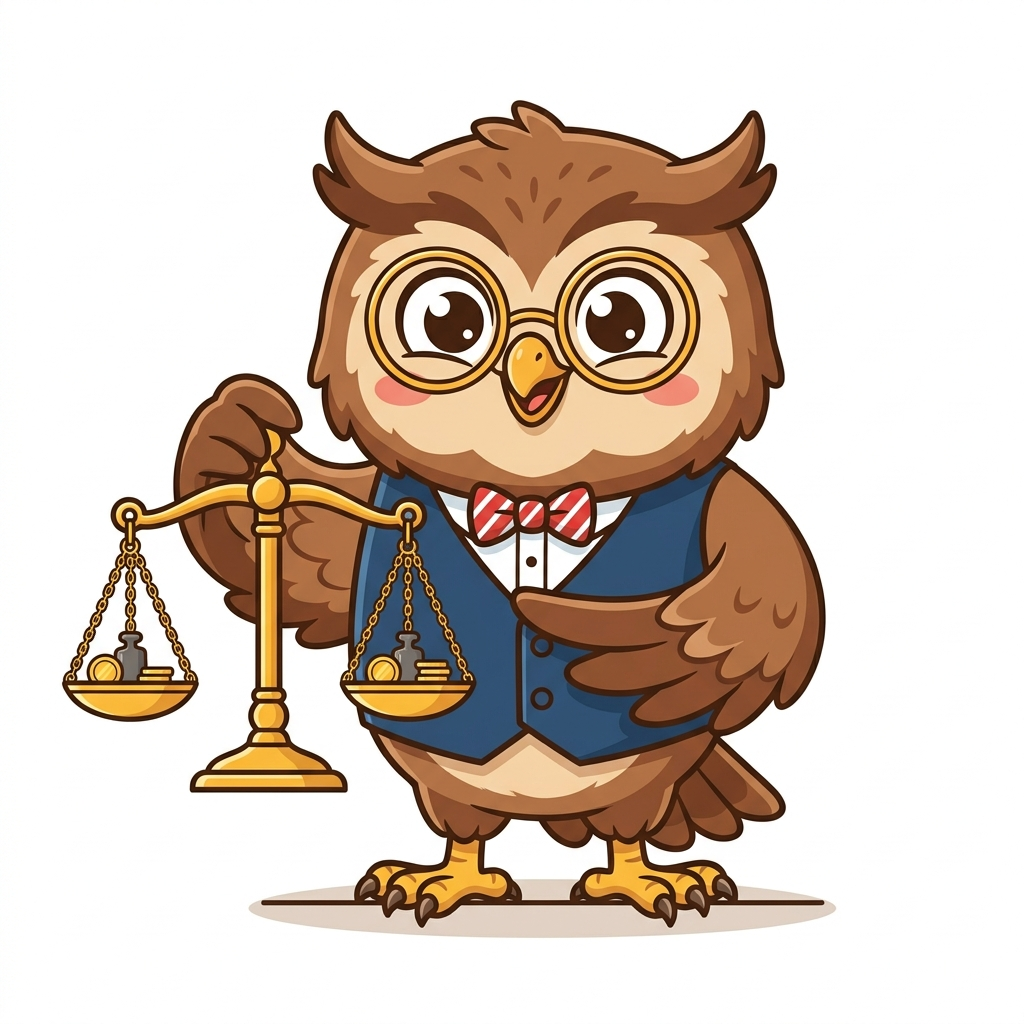
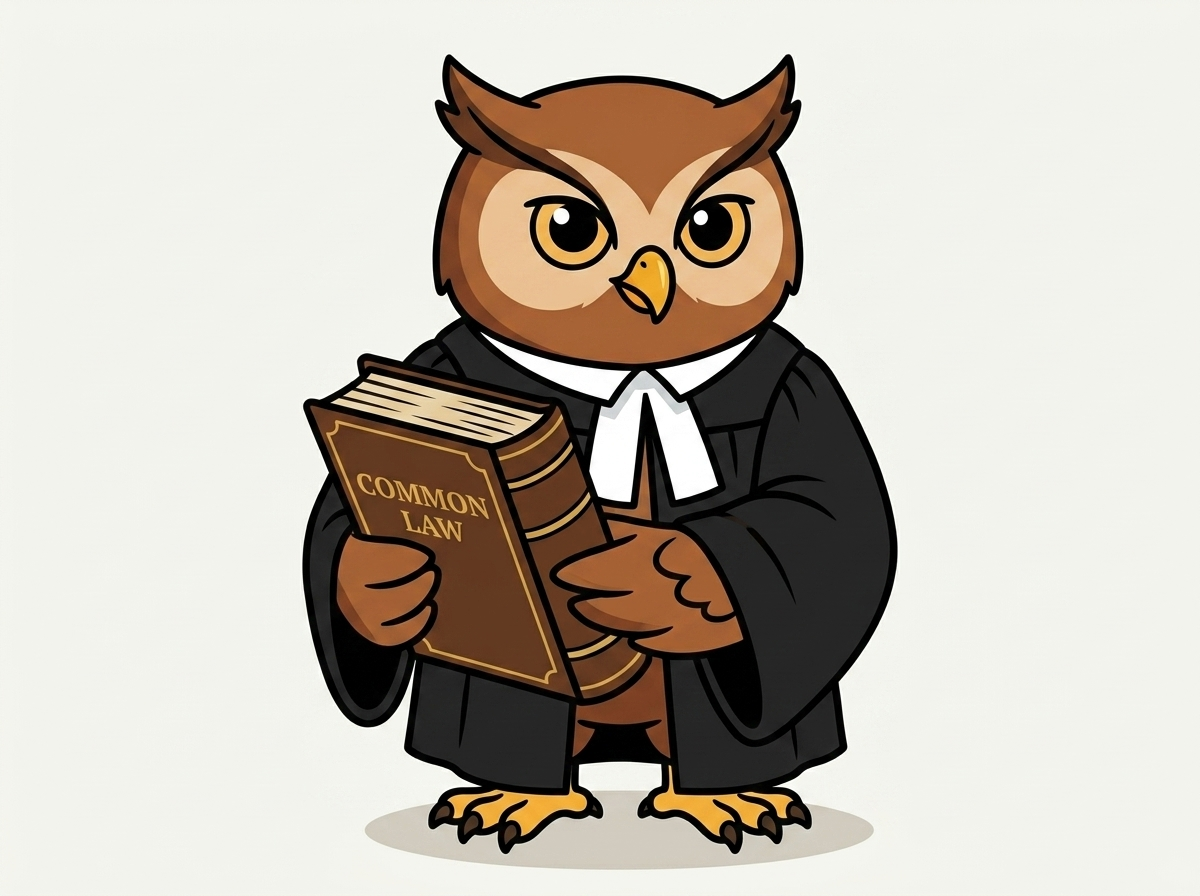
feat: optimize workspace sync with a single commit to prevent Vercel rate-limit

diff --git a/library.html b/library.html
@@ -6,10 +6,10 @@
     <title>Thư Viện B2B | Cẩm Nang & Bài Viết Business Development | BD Bình Dân Học Vụ</title>
     <meta name="description" content="Thư viện lưu trữ các bài viết chuyên môn, ebook, cẩm nang thực chiến dành cho B2B BD được viết bởi Peter Vo.">
     <link href="https://fonts.googleapis.com/css2?family=Plus+Jakarta+Sans:wght@400;500;600;700;800&family=Be+Vietnam+Pro:wght@400;500;600;700;800&display=swap" rel="stylesheet">
-    <link rel="stylesheet" href="style.css?v=2.2.8">
-    <link rel="stylesheet" href="library.css?v=2.2.8">
+    <link rel="stylesheet" href="style.css?v=2.2.9">
+    <link rel="stylesheet" href="library.css?v=2.2.9">
     <link rel="stylesheet" href="ai-chat.css?v=2.1.2">
-    <script src="theme-toggle.js?v=2.2.8"></script>
+    <script src="theme-toggle.js?v=2.2.9"></script>
 </head>
 <body>
     <!-- Navbar -->
@@ -95,7 +95,7 @@
                 <div class="glass-panel ad-banner-card" style="padding: 20px; border-radius: 16px; border: 1px solid var(--border-color); background: var(--card-bg); display: flex; flex-direction: column; gap: 12px; box-shadow: var(--shadow); transition: all 0.3s ease;">
                     <a href="community.html" style="text-decoration: none; color: inherit; display: block;">
                         <div style="position: relative; border-radius: 12px; overflow: hidden; height: 160px; border: 1px solid var(--border-color);">
-                            <img src="beedee_community.jpg?v=2.2.8" style="width: 100%; height: 100%; object-fit: cover; transition: transform 0.3s ease;" onmouseover="this.style.transform='scale(1.08)'" onmouseout="this.style.transform='scale(1)'" alt="Cộng Đồng B2B">
+                            <img src="beedee_community.jpg?v=2.2.9" style="width: 100%; height: 100%; object-fit: cover; transition: transform 0.3s ease;" onmouseover="this.style.transform='scale(1.08)'" onmouseout="this.style.transform='scale(1)'" alt="Cộng Đồng B2B">
                             <div style="position: absolute; top: 10px; left: 10px; background: var(--primary); color: white; padding: 4px 10px; border-radius: 20px; font-size: 0.68rem; font-weight: 800; text-transform: uppercase; letter-spacing: 0.5px;">👥 CỘNG ĐỒNG HOT</div>
                         </div>
                         <h4 style="margin: 10px 0 6px 0; font-size: 0.98rem; font-weight: 800; color: var(--text-main); display: flex; align-items: center; gap: 6px;">
@@ -111,7 +111,7 @@
                 <div class="glass-panel ad-banner-card" style="padding: 20px; border-radius: 16px; border: 1px solid var(--border-color); background: var(--card-bg); display: flex; flex-direction: column; gap: 12px; box-shadow: var(--shadow); transition: all 0.3s ease;">
                     <a href="index.html#minigame-section" style="text-decoration: none; color: inherit; display: block;">
                         <div style="position: relative; border-radius: 12px; overflow: hidden; height: 160px; border: 1px solid var(--border-color);">
-                            <img src="mascot_challenge.jpg?v=2.2.8" style="width: 100%; height: 100%; object-fit: cover; transition: transform 0.3s ease;" onmouseover="this.style.transform='scale(1.08)'" onmouseout="this.style.transform='scale(1)'" alt="BD Challenge">
+                            <img src="mascot_challenge.jpg?v=2.2.9" style="width: 100%; height: 100%; object-fit: cover; transition: transform 0.3s ease;" onmouseover="this.style.transform='scale(1.08)'" onmouseout="this.style.transform='scale(1)'" alt="BD Challenge">
                             <div style="position: absolute; top: 10px; left: 10px; background: rgba(239, 68, 68, 0.95); color: white; padding: 4px 10px; border-radius: 20px; font-size: 0.68rem; font-weight: 800; text-transform: uppercase; letter-spacing: 0.5px;">🎮 MINI GAME</div>
                         </div>
                         <h4 style="margin: 10px 0 6px 0; font-size: 0.98rem; font-weight: 800; color: var(--text-main); display: flex; align-items: center; gap: 6px;">
@@ -250,8 +250,8 @@
     </section>
 </footer>
 
-    <script src="library.js?v=2.2.8"></script>
+    <script src="library.js?v=2.2.9"></script>
     <script src="ai-chat.js?v=2.2.4"></script>
-    <script defer src="/_vercel/insights/script.js?v=2.2.8"></script>
+    <script defer src="/_vercel/insights/script.js?v=2.2.9"></script>
 </body>
 </html>

diff --git a/community.html b/community.html
@@ -9,10 +9,10 @@
     <meta http-equiv="Expires" content="0">
     
     <link href="https://fonts.googleapis.com/css2?family=Plus+Jakarta+Sans:wght@400;500;600;700;800&family=Be+Vietnam+Pro:wght@400;500;600;700;800&display=swap" rel="stylesheet">
-    <link rel="stylesheet" href="style.css?v=2.2.8">
-    <link rel="stylesheet" href="community.css?v=2.2.8">
+    <link rel="stylesheet" href="style.css?v=2.2.9">
+    <link rel="stylesheet" href="community.css?v=2.2.9">
     
-    <script src="theme-toggle.js?v=2.2.8"></script>
+    <script src="theme-toggle.js?v=2.2.9"></script>
 </head>
 <body class="course-page">
 
@@ -67,6 +67,11 @@
             <p style="color: var(--text-light); font-size: 1.1rem; margin-top: 10px;">
                 Nơi đặt câu hỏi, chia sẻ câu chuyện thực chiến, và hỗ trợ kết nối sếp mua hàng (PIC).
             </p>
+            <div style="margin-top: 20px; display: flex; justify-content: center;">
+                <div style="border-radius: 20px; overflow: hidden; border: 1.5px solid var(--border-color); box-shadow: var(--shadow); height: 260px; width: 100%; max-width: 620px;">
+                    <img src="beedee_community.jpg?v=2.2.9" style="width: 100%; height: 100%; object-fit: cover;" alt="BeeDee Community Group">
+                </div>
+            </div>
         </div>
 
         <div class="community-layout">
@@ -133,7 +138,7 @@
                 <!-- Ad Banner 1: Mini Game / Challenge -->
                 <div class="ad-banner-card glass-panel" style="border-radius: 12px; border: 1px solid var(--border-color); background: var(--card-bg); padding: 15px; display: flex; flex-direction: column; gap: 10px; box-shadow: var(--shadow); transition: all 0.3s ease;">
                     <div style="position: relative; border-radius: 8px; overflow: hidden; height: 120px; border: 1px solid var(--border-color);">
-                        <img src="mascot_challenge.jpg?v=2.2.8" style="width: 100%; height: 100%; object-fit: cover;" alt="BD Challenge">
+                        <img src="mascot_challenge.jpg?v=2.2.9" style="width: 100%; height: 100%; object-fit: cover;" alt="BD Challenge">
                         <div style="position: absolute; top: 8px; left: 8px; background: rgba(239, 68, 68, 0.95); color: white; padding: 3px 8px; border-radius: 20px; font-size: 0.65rem; font-weight: 800; text-transform: uppercase;">🔥 MINI GAME HOT</div>
                     </div>
                     <h5 style="margin: 0; font-size: 0.9rem; font-weight: 800; color: var(--text-main); line-height: 1.35;">BD Challenge: Rèn Phản Xạ</h5>
@@ -342,6 +347,6 @@
         </div>
     </div>
 
-    <script src="community.js?v=2.2.8"></script>
+    <script src="community.js?v=2.2.9"></script>
 </body>
 </html>

diff --git a/salary.html b/salary.html
@@ -6,10 +6,10 @@
     <title>Công Cụ Tính Lương Gross - Net | Chuẩn Luật Lao Động 2026 | BD Bình Dân Học Vụ</title>
     <meta name="description" content="Tính toán lương Gross sang Net và Net sang Gross chuẩn xác nhất theo quy định thuế TNCN và bảo hiểm bắt buộc mới nhất năm 2026.">
     <link href="https://fonts.googleapis.com/css2?family=Plus+Jakarta+Sans:wght@400;500;600;700;800&family=Be+Vietnam+Pro:wght@400;500;600;700;800&display=swap" rel="stylesheet">
-    <link rel="stylesheet" href="style.css?v=2.2.8">
+    <link rel="stylesheet" href="style.css?v=2.2.9">
     <link rel="stylesheet" href="salary.css?v=2.1.5">
     <link rel="stylesheet" href="ai-chat.css?v=2.1.2">
-    <script src="theme-toggle.js?v=2.2.8"></script>
+    <script src="theme-toggle.js?v=2.2.9"></script>
 </head>
 <body>
     <!-- Navbar -->
@@ -48,6 +48,11 @@
         <section class="salary-hero">
             <h1 class="hero-title">TÍNH LƯƠNG <span class="highlight">GROSS &harr; NET</span></h1>
             <p class="hero-subtitle">Công cụ quy đổi lương và phân tích chi tiết bảo hiểm, thuế TNCN theo cập nhật Luật Lao Động mới nhất</p>
+            <div style="margin-top: 20px; display: flex; justify-content: center;">
+                <div style="border-radius: 16px; overflow: hidden; border: 1.5px solid var(--border-color); box-shadow: var(--shadow); height: 140px; width: 185px;">
+                    <img src="mascot_salary.jpg?v=2.2.9" style="width: 100%; height: 100%; object-fit: cover;" alt="BeeDee Salary">
+                </div>
+            </div>
         </section>
 
         <!-- Main View Switcher Tabs -->
@@ -614,6 +619,6 @@
 
     <script src="salary.js?v=2.0.0"></script>
     <script src="ai-chat.js?v=2.2.4"></script>
-    <script defer src="/_vercel/insights/script.js?v=2.2.8"></script>
+    <script defer src="/_vercel/insights/script.js?v=2.2.9"></script>
 </body>
 </html>

diff --git a/labor-law.html b/labor-law.html
@@ -6,10 +6,10 @@
     <title>Tra Cứu Luật Lao Động B2B | Quyền Lợi Người Lao Động | BD Bình Dân Học Vụ</title>
     <meta name="description" content="Cổng tra cứu nhanh quy định Bộ luật Lao động 2019 cập nhật mới nhất và các tình huống giải quyết tranh chấp hợp đồng thực tế.">
     <link href="https://fonts.googleapis.com/css2?family=Plus+Jakarta+Sans:wght@400;500;600;700;800&family=Be+Vietnam+Pro:wght@400;500;600;700;800&display=swap" rel="stylesheet">
-    <link rel="stylesheet" href="style.css?v=2.2.8">
+    <link rel="stylesheet" href="style.css?v=2.2.9">
     <link rel="stylesheet" href="labor-law.css?v=2.1.5">
     <link rel="stylesheet" href="ai-chat.css?v=2.1.2">
-    <script src="theme-toggle.js?v=2.2.8"></script>
+    <script src="theme-toggle.js?v=2.2.9"></script>
 </head>
 <body>
     <!-- Navbar -->
@@ -48,6 +48,11 @@
         <section class="labor-hero">
             <h1 class="hero-title">BẢN ĐỒ <span class="highlight">LUẬT LAO ĐỘNG</span></h1>
             <p class="hero-subtitle">Tra cứu nhanh quy định pháp lý & Tình huống tranh chấp lao động thực tế dành cho B2B Employee</p>
+            <div style="margin-top: 20px; display: flex; justify-content: center;">
+                <div style="border-radius: 16px; overflow: hidden; border: 1.5px solid var(--border-color); box-shadow: var(--shadow); height: 140px; width: 185px;">
+                    <img src="mascot_law.jpg?v=2.2.9" style="width: 100%; height: 100%; object-fit: cover;" alt="BeeDee Law">
+                </div>
+            </div>
         </section>
 
         <!-- Search & Filter Options -->
@@ -187,6 +192,6 @@
 
     <script src="labor-law.js?v=2.0.0"></script>
     <script src="ai-chat.js?v=2.2.4"></script>
-    <script defer src="/_vercel/insights/script.js?v=2.2.8"></script>
+    <script defer src="/_vercel/insights/script.js?v=2.2.9"></script>
 </body>
 </html>

diff --git a/quests.html b/quests.html
@@ -6,9 +6,9 @@
     <title>Nhiệm Vụ & Quà Tặng | Tích Lũy Điểm Thực Chiến BD | BD Bình Dân Học Vụ</title>
     <meta name="description" content="Hệ thống tích lũy điểm thực chiến BD, làm nhiệm vụ hàng ngày/tuần để đổi lấy quà tặng độc quyền từ anh Peter Vo.">
     <link href="https://fonts.googleapis.com/css2?family=Plus+Jakarta+Sans:wght@400;500;600;700;800&family=Be+Vietnam+Pro:wght@400;500;600;700;800&display=swap" rel="stylesheet">
-    <link rel="stylesheet" href="style.css?v=2.2.8">
+    <link rel="stylesheet" href="style.css?v=2.2.9">
     <link rel="stylesheet" href="ai-chat.css?v=2.1.2">
-    <script src="theme-toggle.js?v=2.2.8"></script>
+    <script src="theme-toggle.js?v=2.2.9"></script>
 </head>
 <body>
     <!-- Navbar -->
@@ -54,6 +54,11 @@
             <p class="hero-subtitle" style="font-size: 1.1rem; color: var(--text-light); max-width: 600px; margin: 0 auto; line-height: 1.5;">
                 Rèn luyện kỹ năng BD mỗi ngày, tích lũy BD-Points để mở khóa phần thưởng thực chiến độc quyền!
             </p>
+            <div style="margin-top: 20px; display: flex; justify-content: center;">
+                <div style="border-radius: 16px; overflow: hidden; border: 1.5px solid var(--border-color); box-shadow: var(--shadow); height: 140px; width: 185px;">
+                    <img src="mascot_quests.jpg?v=2.2.9" style="width: 100%; height: 100%; object-fit: cover;" alt="BeeDee Quests">
+                </div>
+            </div>
         </section>
 
         <!-- Main Layout with Sidebar -->
@@ -258,7 +263,7 @@
     <!-- Chat Bot Integration -->
     <div id="ai-chat-root"></div>
 
-    <script src="script.js?v=2.2.8"></script>
+    <script src="script.js?v=2.2.9"></script>
     <script src="ai-chat.js?v=2.2.4"></script>
 </body>
 </html>

diff --git a/email-assistant.html b/email-assistant.html
@@ -10,10 +10,10 @@
     <link rel="preconnect" href="https://fonts.gstatic.com" crossorigin>
     <link href="https://fonts.googleapis.com/css2?family=Plus+Jakarta+Sans:wght@400;500;600;700;800&family=Be+Vietnam+Pro:wght@400;500;600;700;800&display=swap" rel="stylesheet">
     <!-- Custom CSS -->
-    <link rel="stylesheet" href="style.css?v=2.2.8">
+    <link rel="stylesheet" href="style.css?v=2.2.9">
     <link rel="stylesheet" href="email-assistant.css?v=2.1.4">
     <link rel="stylesheet" href="ai-chat.css?v=2.1.2">
-    <script src="theme-toggle.js?v=2.2.8"></script>
+    <script src="theme-toggle.js?v=2.2.9"></script>
 </head>
 <body>
     <!-- Navbar -->
@@ -52,6 +52,11 @@
         <div class="assistant-header">
             <h1>B2B Email Assistant</h1>
             <p>Đánh giá hiệu quả cold email và tự động soạn thảo mẫu tiếp cận đối tác đạt tỷ lệ chuyển đổi cao</p>
+            <div style="margin-top: 20px; display: flex; justify-content: center;">
+                <div style="border-radius: 16px; overflow: hidden; border: 1.5px solid var(--border-color); box-shadow: var(--shadow); height: 140px; width: 185px;">
+                    <img src="mascot_email.jpg?v=2.2.9" style="width: 100%; height: 100%; object-fit: cover;" alt="BeeDee Email">
+                </div>
+            </div>
         </div>
 
         <!-- Settings Button Bar -->
@@ -427,6 +432,6 @@
     <script src="ai-chat.js?v=2.2.4"></script>
     <!-- Custom Page Script -->
     <script src="email-assistant.js?v=2.0.0"></script>
-    <script defer src="/_vercel/insights/script.js?v=2.2.8"></script>
+    <script defer src="/_vercel/insights/script.js?v=2.2.9"></script>
 </body>
 </html>

diff --git a/pitching.html b/pitching.html
@@ -6,10 +6,10 @@
     <title>AI Sales Roleplay Simulator | BD Bình Dân Học Vụ</title>
     <meta name="description" content="Luyện tập pitching, đàm phán và xử lý từ chối B2B thực chiến với Trợ lý ảo AI đóng vai khách hàng.">
     <link href="https://fonts.googleapis.com/css2?family=Plus+Jakarta+Sans:wght@400;500;600;700;800&family=Be+Vietnam+Pro:wght@400;500;600;700;800&display=swap" rel="stylesheet">
-    <link rel="stylesheet" href="style.css?v=2.2.8">
+    <link rel="stylesheet" href="style.css?v=2.2.9">
     <link rel="stylesheet" href="pitching.css?v=2.1.2">
     <link rel="stylesheet" href="ai-chat.css?v=2.1.2">
-    <script src="theme-toggle.js?v=2.2.8"></script>
+    <script src="theme-toggle.js?v=2.2.9"></script>
 </head>
 <body>
     <!-- Navbar -->
@@ -52,6 +52,9 @@
         <div class="workspace-container">
             <!-- Left Sidebar Navigation -->
             <aside class="sidebar-panel glass-panel">
+                <div style="border-radius: 12px; overflow: hidden; border: 1.5px solid var(--border-color); margin-bottom: 15px; box-shadow: var(--shadow); height: 120px;">
+                    <img src="mascot_pitching.jpg?v=2.2.9" style="width: 100%; height: 100%; object-fit: cover;" alt="BeeDee Pitching">
+                </div>
                 <button class="sidebar-menu-btn active" id="menu-btn-dashboard" onclick="switchTab('dashboard')">
                     📊 Dashboard Chung
                 </button>

diff --git a/kpi-estimation.html b/kpi-estimation.html
@@ -6,10 +6,10 @@
     <title>Ước Tính KPI - B2B Business Development Portal | BD Bình Dân Học Vụ</title>
     
     <link href="https://fonts.googleapis.com/css2?family=Plus+Jakarta+Sans:wght@400;500;600;700;800&family=Be+Vietnam+Pro:wght@400;500;600;700;800&display=swap" rel="stylesheet">
-    <link rel="stylesheet" href="style.css?v=2.2.8">
+    <link rel="stylesheet" href="style.css?v=2.2.9">
     <link rel="stylesheet" href="kpi-estimation.css?v=2.0.0">
     
-    <script src="theme-toggle.js?v=2.2.8"></script>
+    <script src="theme-toggle.js?v=2.2.9"></script>
 </head>
 <body class="course-page">
 
@@ -50,6 +50,11 @@
             <p style="color: var(--text-light); font-size: 1.1rem; margin-top: 10px;">
                 Nhập mục tiêu doanh thu, hợp đồng trung bình để tự động tính toán ngược phễu hoạt động và số lượng Lead cần thiết.
             </p>
+            <div style="margin-top: 20px; display: flex; justify-content: center;">
+                <div style="border-radius: 16px; overflow: hidden; border: 1.5px solid var(--border-color); box-shadow: var(--shadow); height: 140px; width: 185px;">
+                    <img src="mascot_kpi.jpg?v=2.2.9" style="width: 100%; height: 100%; object-fit: cover;" alt="BeeDee KPI">
+                </div>
+            </div>
         </div>
 
         <!-- Funnel Selector Tabs -->

diff --git a/finder.html b/finder.html
@@ -6,7 +6,7 @@
     <title>B2B PIC Finder | LinkedIn Lead Search & Enrichment Tool | BD Bình Dân Học Vụ</title>
     <meta name="description" content="Search and find contact information (email & phone) for target company decision makers via LinkedIn and public search engines.">
     <link href="https://fonts.googleapis.com/css2?family=Plus+Jakarta+Sans:wght@400;500;600;700;800&family=Be+Vietnam+Pro:wght@400;500;600;700;800&display=swap" rel="stylesheet">
-    <link rel="stylesheet" href="style.css?v=2.2.8">
+    <link rel="stylesheet" href="style.css?v=2.2.9">
     <link rel="stylesheet" href="finder.css?v=2.0.0">
     <style>
         /* Force black background and light text for the results table to avoid caching or override issues */
@@ -48,7 +48,7 @@
         }
     </style>
     <link rel="stylesheet" href="ai-chat.css?v=2.1.2">
-    <script src="theme-toggle.js?v=2.2.8"></script>
+    <script src="theme-toggle.js?v=2.2.9"></script>
 </head>
 <body>
     <!-- Navbar -->
@@ -398,6 +398,6 @@
 
     <script src="finder.js?v=2.0.0"></script>
     <script src="ai-chat.js?v=2.2.4"></script>
-    <script defer src="/_vercel/insights/script.js?v=2.2.8"></script>
+    <script defer src="/_vercel/insights/script.js?v=2.2.9"></script>
 </body>
 </html>

diff --git a/index.html b/index.html
@@ -6,9 +6,9 @@
     <title>5 Pha Chuyển Mình Về Ngôn Từ B2B | BD Bình Dân Học Vụ</title>
     <meta name="description" content="Đừng để 'Cái miệng hại cái deal' - 5 pha chuyển mình về ngôn từ dành cho B2B Business Development">
     <link href="https://fonts.googleapis.com/css2?family=Plus+Jakarta+Sans:wght@400;500;600;700;800&family=Be+Vietnam+Pro:wght@400;500;600;700;800&display=swap" rel="stylesheet">
-    <link rel="stylesheet" href="style.css?v=2.2.8">
+    <link rel="stylesheet" href="style.css?v=2.2.9">
     <link rel="stylesheet" href="ai-chat.css?v=2.1.2">
-    <script src="theme-toggle.js?v=2.2.8"></script>
+    <script src="theme-toggle.js?v=2.2.9"></script>
 </head>
 <body>
     <!-- Navbar -->
@@ -636,8 +636,8 @@
         </div>
     </div>
 
-    <script src="script.js?v=2.2.8"></script>
+    <script src="script.js?v=2.2.9"></script>
     <script src="ai-chat.js?v=2.2.4"></script>
-    <script defer src="/_vercel/insights/script.js?v=2.2.8"></script>
+    <script defer src="/_vercel/insights/script.js?v=2.2.9"></script>
 </body>
 </html>
